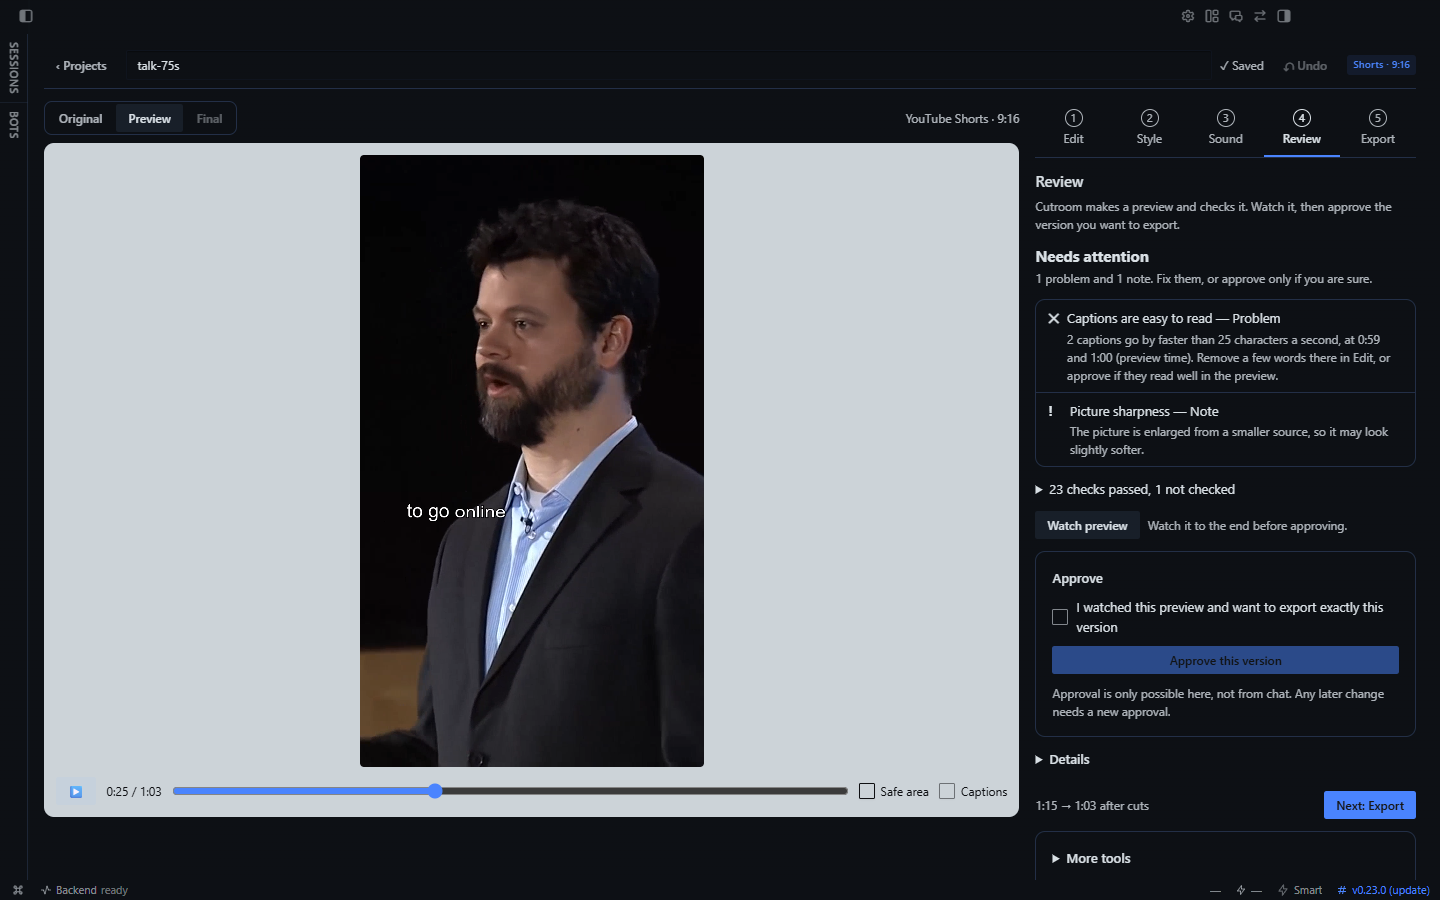
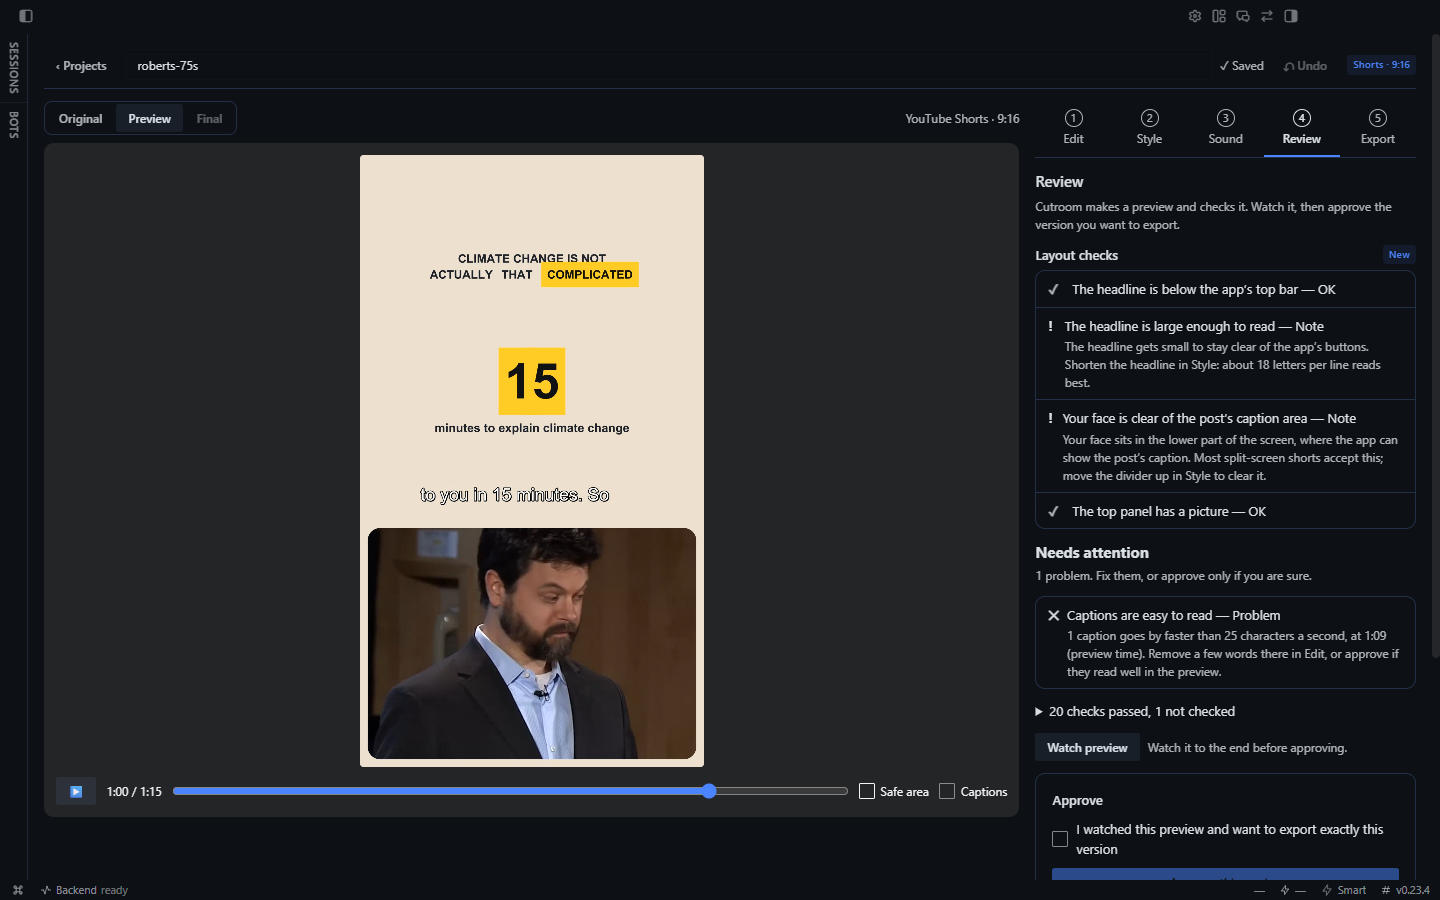
README: split explainer, bleep and hide, and the new review in screenshots

diff --git a/README.md b/README.md
@@ -7,7 +7,7 @@
 
 <p align="center">A local-first video editing studio for Hermes Agent.</p>
 
-Cutroom turns a local recording into a reviewable edit: word-timed transcript cuts and filler review, silence removal, face/gaze/mouth review, person segmentation for graphics behind the subject, three source-quoted hook options with a storyboard, a preview render, a human-approved final export, a cover and automated quality checks. Media and models stay on your machine, and source files are never overwritten.
+Cutroom turns a local recording into a reviewable edit: word-timed transcript cuts and filler review, silence removal, explainer layouts for vertical videos, bleeped words and hidden parts of the picture, face/gaze/mouth review, person segmentation for graphics behind the subject, three source-quoted hook options with a storyboard, a preview render, a human-approved final export, a cover and automated quality checks. Media and models stay on your machine, and source files are never overwritten.
 
 It ships three surfaces:
 
@@ -31,9 +31,17 @@ Start from a file on your computer, or record one with OBS and edit it straight 
 
 <img src="docs/screenshots/style.png" alt="YouTube Shorts with face-tracked framing and pop-in captions" width="900">
 
-**Review, then approve.** Cutroom renders a preview and checks it: frame, timing, loudness, captions, safe zone and framing. A problem says what is wrong, where, and how to fix it. Only a person can approve, and any later change needs a new approval.
+**Explainer layouts for Shorts, Reels and TikTok.** Split explainer puts a headline at the top, a card or picture in the middle and you in a rounded frame below. Pick a headline from your own words, then a card (title, number, quote, bar chart, app row, terminal, sound wave) or a local picture or screen recording. Select words in Edit to change the picture while you talk about it. The player shows the layout before anything is rendered.
 
-<img src="docs/screenshots/review.png" alt="Preview with automatic checks and the approval box" width="900">
+<img src="docs/screenshots/layout.png" alt="Split explainer with a headline, a number card and the speaker below" width="900">
+
+**Bleep words, hide parts of the picture.** Select words, then Bleep or Mute; bleeped words also leave the captions and subtitle files. Hide area draws a solid box, blur or pixelate on the frame you are looking at, for the time of the selected words. Turn on Follow movement and the box follows what it covers; when tracking is unsure, the whole picture is covered for that time and Review says where. A strip in More tools shows every bleep, hidden area and picture in time, and you drag them to whole words.
+
+<img src="docs/screenshots/hide.png" alt="A logo hidden with a solid box, a bleeped word and the time strip" width="900">
+
+**Review, then approve.** Cutroom renders a preview and checks it: frame, timing, loudness, captions, safe zone and framing, and for layouts the headline and where your face sits. A problem says what is wrong, where, and how to fix it. Long previews start playing on their first pieces. Only a person can approve, and any later change needs a new approval.
+
+<img src="docs/screenshots/review.png" alt="Rendered split-explainer preview with layout checks and the approval box" width="900">
 
 **Export and deliver.** The final is made from exactly the approved version. Download the files, make a local delivery package, or send them to a Google Drive folder.
 
